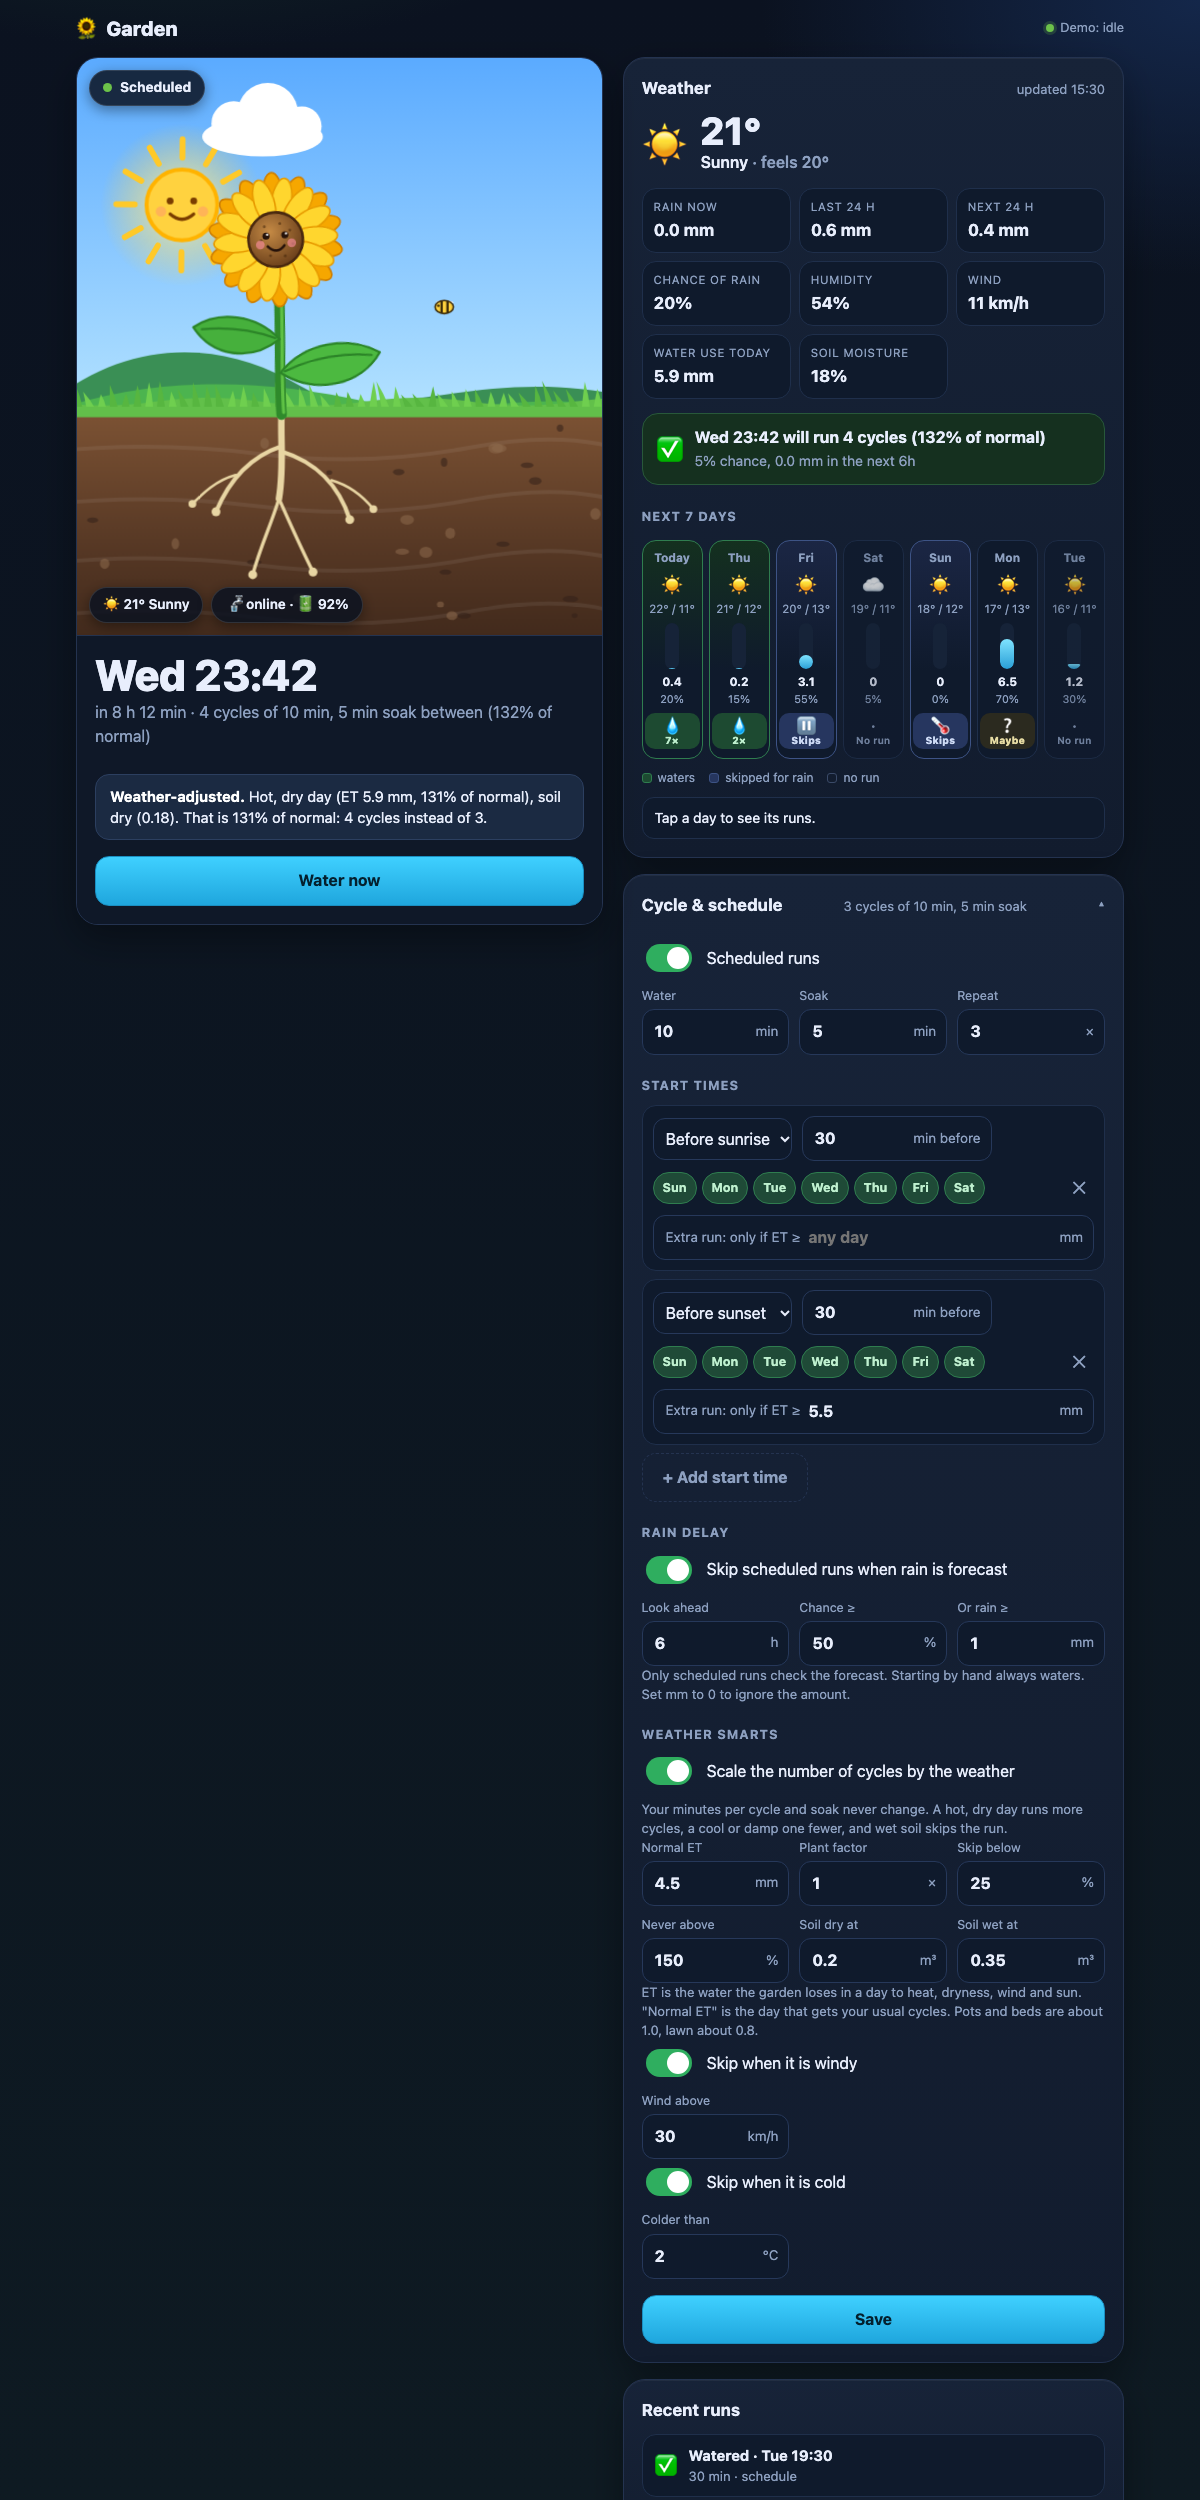
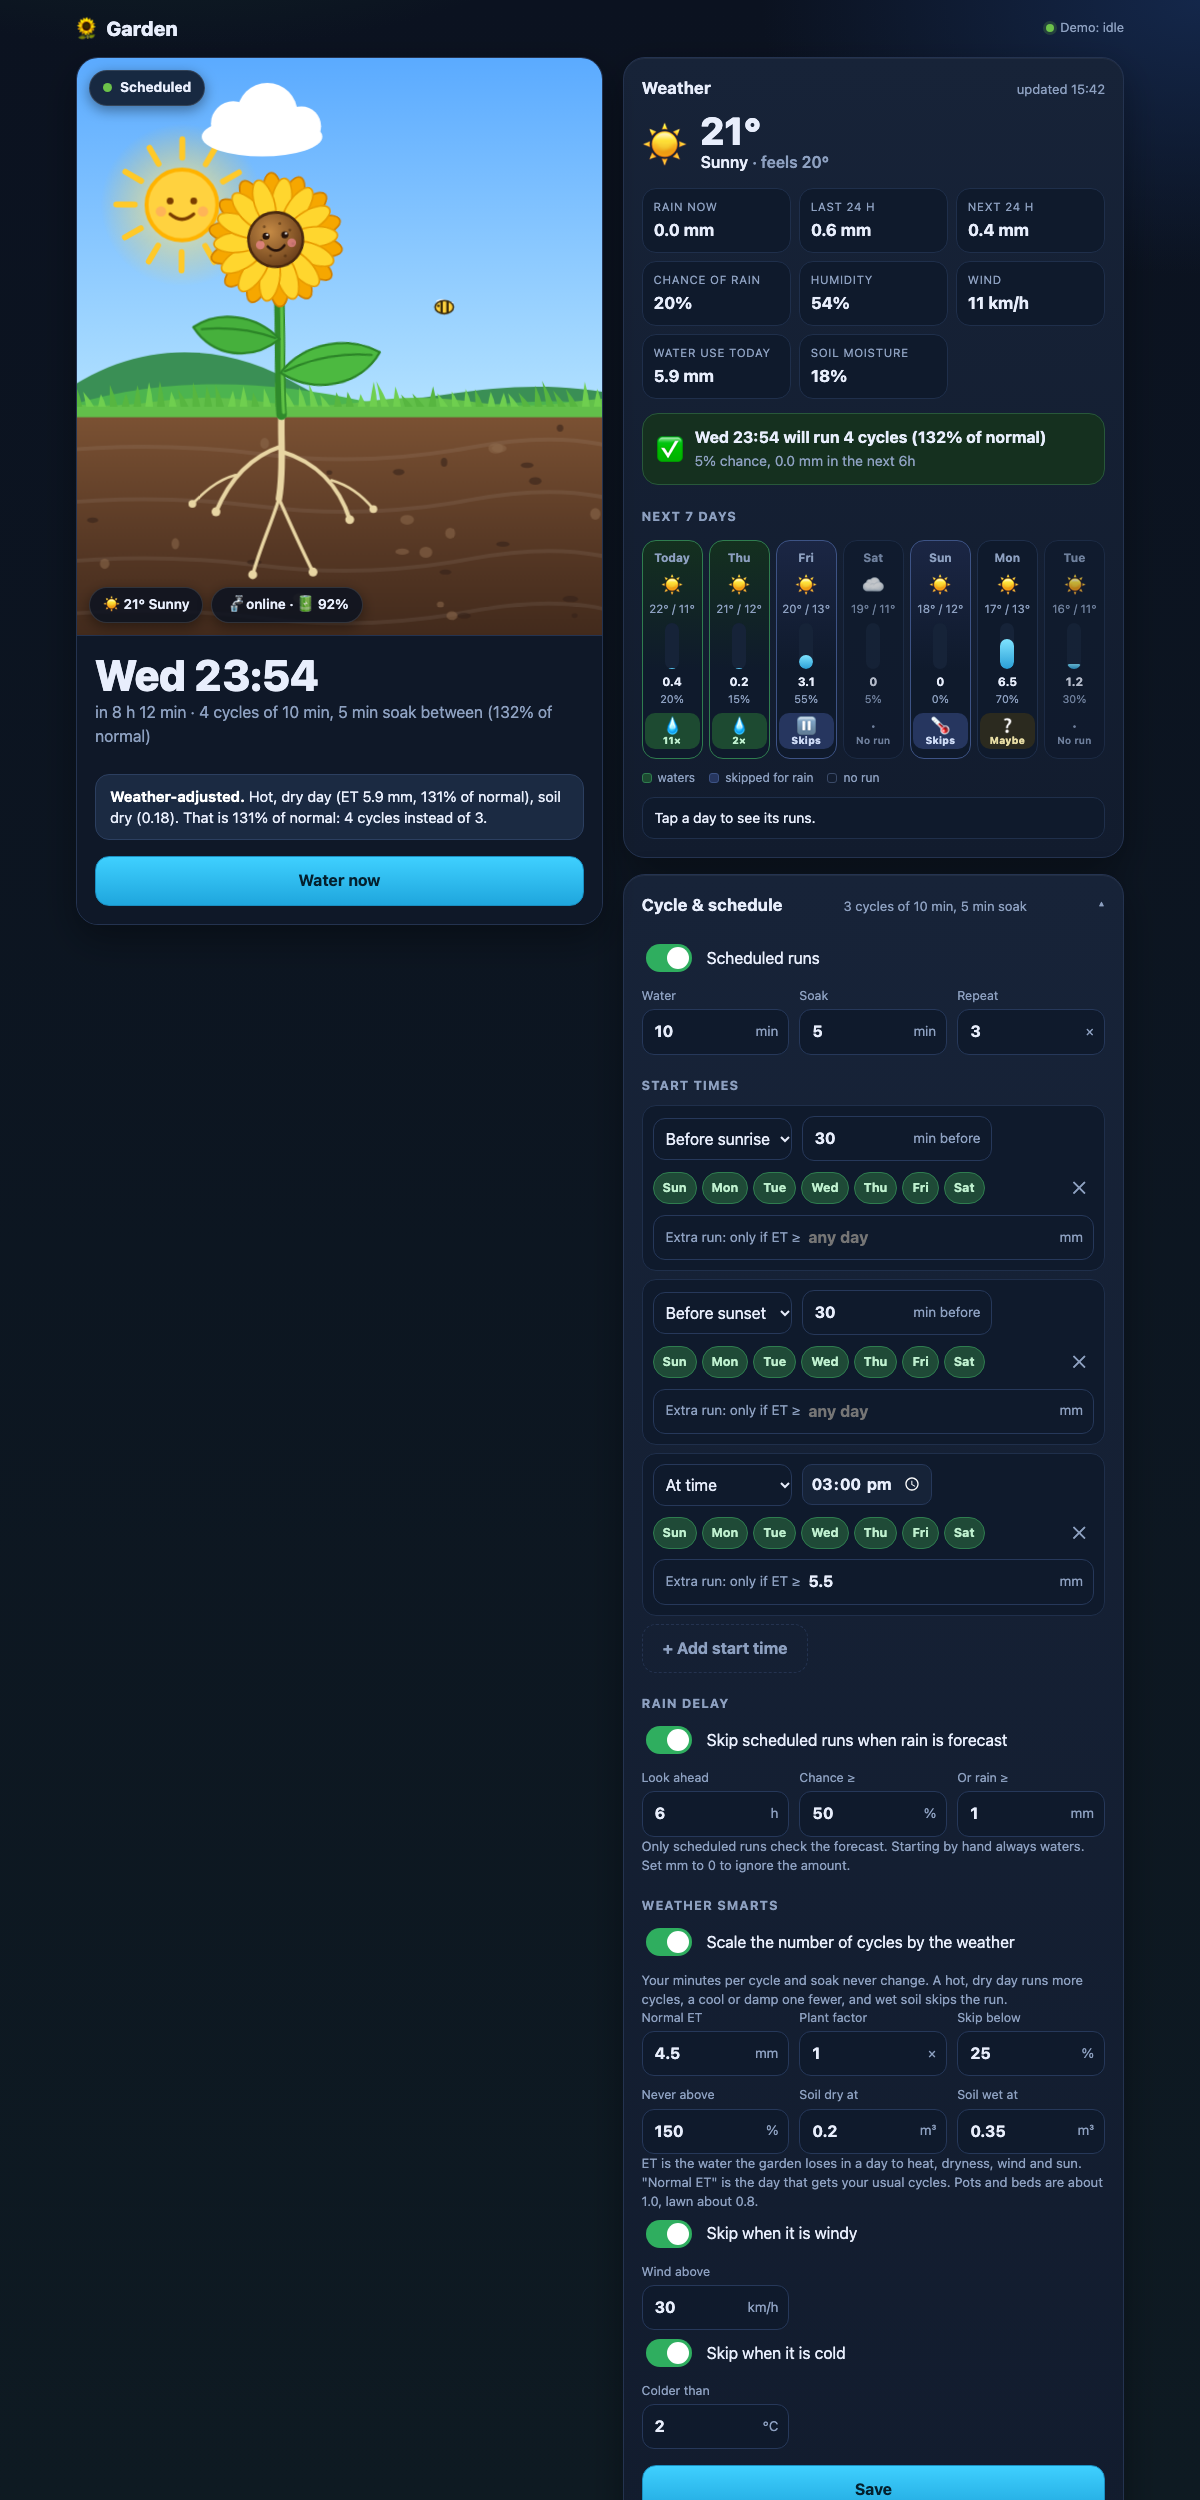
docs(schedule): 📝 show extra run as an addition
The demo and docs example now have a sunrise run and a sunset run every
day, plus an extra afternoon run only on hot days. Screenshots retaken.

Changed region(s): [[0.5242, 0.5616, 0.925, 1.0], [0.2158, 0.2496, 0.2775, 0.2808]]

diff --git a/worker/public/app.js b/worker/public/app.js
@@ -100,7 +100,7 @@ const cyclesLabel = (n) => `${n} cycle${n === 1 ? "" : "s"}`;
 
 function demoData(name) {
   const now = Date.now();
-  const config = { enabled: true, onMinutes: 10, soakMinutes: 5, cycles: 3, schedules: [{ days: [0, 1, 2, 3, 4, 5, 6], at: "dawn", time: "00:00", beforeSunriseMin: 30 }, { days: [0, 1, 2, 3, 4, 5, 6], at: "dusk", time: "00:00", afterSunsetMin: -30, onlyIfEtMm: 5.5 }], rain: { enabled: true, probabilityPct: 50, mm: 1, lookaheadHours: 6 },
+  const config = { enabled: true, onMinutes: 10, soakMinutes: 5, cycles: 3, schedules: [{ days: [0, 1, 2, 3, 4, 5, 6], at: "dawn", time: "00:00", beforeSunriseMin: 30 }, { days: [0, 1, 2, 3, 4, 5, 6], at: "dusk", time: "00:00", afterSunsetMin: -30 }, { days: [0, 1, 2, 3, 4, 5, 6], at: "clock", time: "15:00", onlyIfEtMm: 5.5 }], rain: { enabled: true, probabilityPct: 50, mm: 1, lookaheadHours: 6 },
     smart: { enabled: true, referenceEtMm: 4.5, cropFactor: 1, minPercent: 25, maxPercent: 150, soilDryBelow: 0.2, soilWetAbove: 0.35, wind: { enabled: true, maxKmh: 30 }, frost: { enabled: true, belowC: 2 } } };
   const idle = { phase: "idle", cycle: 0, cycles: 0, onSeconds: 0, soakSeconds: 0, phaseStartedAt: 0, phaseEndsAt: 0 };
   const running = (phase, left) => ({ phase, cycle: 2, cycles: 3, onSeconds: 600, soakSeconds: 300, phaseStartedAt: now - ((phase === "watering" ? 600 : 300) - left) * 1000, phaseEndsAt: now + left * 1000 });
@@ -115,7 +115,7 @@ function demoData(name) {
   const dry = "5% chance, 0.0 mm in the next 6h";
   const wet = "rain likely: 78% chance, 4.0 mm in the next 6h";
   const demoRuns = [
-    () => rain ? run(0, "skip", wet) : [{ at: at(0), state: "will-run", reason: dry, cycles: 4, percent: 132, scaling: "Hot, dry day (ET 5.9 mm, 131% of normal), soil dry (0.18). That is 131% of normal: 4 cycles instead of 3." }, { at: at(0) + 11 * 3600000, state: "will-run", reason: dry, cycles: 3, percent: 100, scaling: "Typical day (ET 4.5 mm, 100% of normal), soil dry (0.20). That is 100% of normal: 3 cycles, same as normal." }],
+    () => rain ? run(0, "skip", wet) : [{ at: at(0), state: "will-run", reason: dry, cycles: 4, percent: 132, scaling: "Hot, dry day (ET 5.9 mm, 131% of normal), soil dry (0.18). That is 131% of normal: 4 cycles instead of 3." }, { at: at(0) + 6 * 3600000, state: "will-run", reason: dry, cycles: 4, percent: 131, scaling: "Hot, dry day (ET 5.9 mm, 131% of normal), soil dry (0.18). That is 131% of normal: 4 cycles instead of 3." }, { at: at(0) + 11 * 3600000, state: "will-run", reason: dry, cycles: 3, percent: 100, scaling: "Typical day (ET 4.5 mm, 100% of normal), soil dry (0.20). That is 100% of normal: 3 cycles, same as normal." }],
     () => rain ? run(1, "skip", wet) : [{ at: at(1), state: "will-run", reason: dry, cycles: 2, percent: 62, scaling: "Cool or humid day (ET 2.8 mm, 62% of normal), soil damp (0.27). That is 62% of normal: 2 cycles instead of 3." }],
     () => run(2, "skip", wet),
     () => [],

diff --git a/docs/ui-and-behaviour.md b/docs/ui-and-behaviour.md
@@ -37,7 +37,8 @@ To preview every scene without a backend, serve `worker/public` and open `/?demo
   Sunrise and sunset are worked out from your latitude and longitude, so they follow the seasons. You can have as many
   start times as you like, for example one before sunrise and one before sunset. Each run is scaled by the weather on
   its own, so two runs on a hot day both get the extra cycles.
-- A start time can be an **extra run**: set "only if ET ≥ X mm" and it only happens on days the forecast ET reaches X.
+- A start time can be an **extra run**. It is on top of your normal starts, which still run every day. Set "only if ET ≥ X mm" and
+  it only happens on days the forecast ET reaches X, for example sunrise and sunset every day plus a mid-afternoon run on hot days.
   On a milder day it does nothing, leaves no history entry and sends no alert, and the 7-day outlook leaves it out. If
   there is no ET forecast for the day, it does not run. Leave the field empty for a run that happens every day.
 - Every change of the valve is confirmed by reading its state back. If Tuya can't be reached when a phase changes, it
